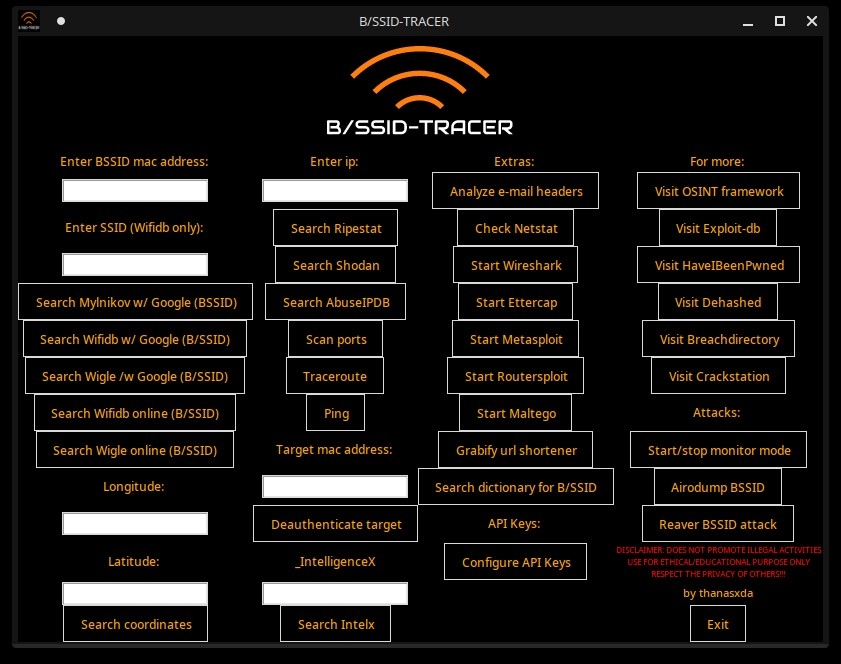
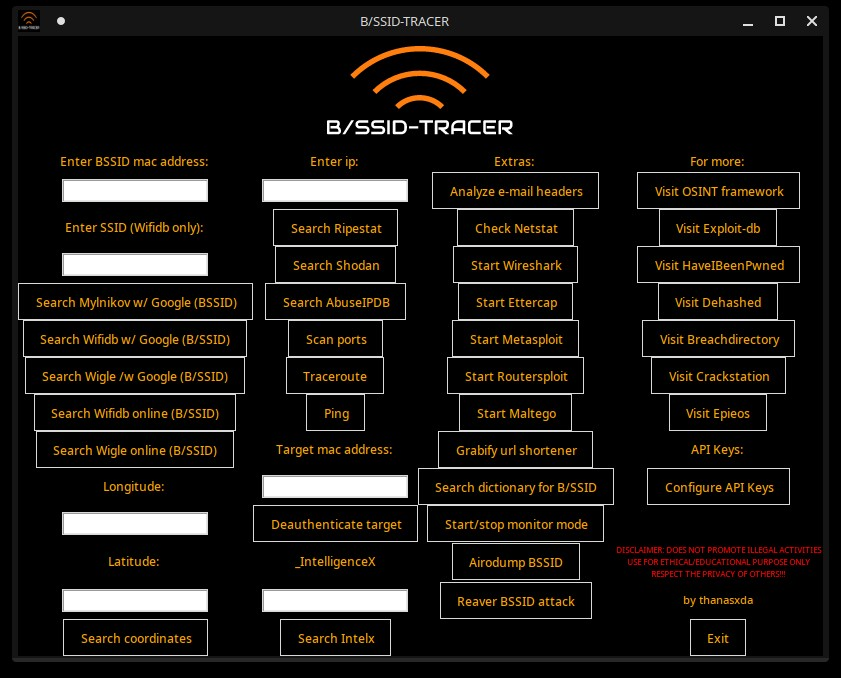
update

Changed region(s): [[0.0309, 0.0, 0.9893, 0.9639]]

diff --git a/bssid-tracer.py b/bssid-tracer.py
@@ -302,7 +302,7 @@ btn_eml.grid(column=2, row=2)
 
 # netstat ##############
 def netSt():
-	os.system('echo "\033[1;93m" ; netstat | grep -i "tcp\|udp" ; echo "\n" ; netstat -n | grep -i "tcp\|udp" ; echo "\033[0m"')
+	os.system('echo "\033[1;93m" ; netstat | grep -i "tcp\|udp" ; echo "\n" ; netstat -n | grep -i "tcp\|udp" ; sudo netstat -tulpn ; echo "\033[0m"')
 btn_ntst = Button(root,bg='#000', fg='orange', text='Check Netstat', borderwidth=4, relief="solid", command=netSt)
 btn_ntst.grid(column=2, row=3)
 
@@ -353,11 +353,30 @@ btn_dict = Button(root,bg='#000', fg='orange', text='Search dictionary for B/SSI
 btn_dict.grid(column=2, row=10)
 ############################
 
-# API KEYS ##############
-Label(root,bg='#000', fg='orange', text='API Keys: ').grid(column=2, row=11)
-btn_apk = Button(root,bg='#000', fg='orange', text='Configure API Keys', borderwidth=4, relief="solid", command=openWindowAPI)
-btn_apk.grid(column=2, row=12)
+
+# ATTACK OPTIONS ##############
+# aircrack-ng ##############
+# airmon #############
+def airMon():
+	os.seteuid(1000)
+	os.system("if airmon-ng | grep -qi wlan ; then airmon-ng stop $(ip -o link | grep -i wlan | awk -F ':' '{print $2}' | head -n1)mon ; else sudo airmon-ng start $(ip -o link | grep -i wlan | awk -F ':' '{print $2}' | head -n1)mon ; fi")
+btn_airmn = Button(root,bg='#000', fg='orange', text='Start/stop monitor mode', borderwidth=4, relief="solid", command=airMon)
+btn_airmn.grid(column=2, row=11)
+
+# airodump #############
+def airoD():
+	os.seteuid(1000)
+	os.system("airodump-ng $(ip -o link | grep -i wlan | awk -F ':' '{print $2}' | head -n1)mon --bssid "+mac.get())
+btn_airmn = Button(root,bg='#000', fg='orange', text='Airodump BSSID', borderwidth=4, relief="solid", command=airoD)
+btn_airmn.grid(column=2, row=12)
+
+# reaver ##############
+def wps():
+		os.system("reaver -i $(ip -o link | grep -i wlan | awk -F ':' '{print $2}' | head -n1)mon -b "+mac.get())
+btn_rvr = Button(root,bg='#000', fg='orange', text='Reaver BSSID attack', borderwidth=4, relief="solid", command=root.destroy)
+btn_rvr.grid(column=2, row=13)
 ############################
+
 
 # EXTERNAL VISIT OPTIONS ##############
 Label(root,bg='#000', fg='orange', text='For more: ').grid(column=3, row=1)
@@ -387,7 +406,7 @@ def dhs():
 btn_dhs = Button(root,bg='#000', fg='orange', text='Visit Dehashed', borderwidth=4, relief="solid", command=dhs)
 btn_dhs.grid(column=3, row=5)
 
-#  ##############
+# breachdirectory ##############
 def bdir():
 		os.system("xdg-open 'https://breachdirectory.com/search'")
 btn_ddir = Button(root,bg='#000', fg='orange', text='Visit Breachdirectory', borderwidth=4, relief="solid", command=bdir)
@@ -398,33 +417,19 @@ def crst():
 		os.system("xdg-open 'https://crackstation.net/'")
 btn_crst = Button(root,bg='#000', fg='orange', text='Visit Crackstation', borderwidth=4, relief="solid", command=crst)
 btn_crst.grid(column=3, row=7)
+
+# epieos ##############
+def epieos():
+		os.system("xdg-open 'https://epieos.com/'")
+btn_epieos = Button(root,bg='#000', fg='orange', text='Visit Epieos', borderwidth=4, relief="solid", command=epieos)
+btn_epieos.grid(column=3, row=8)
 ############################
 
 
-# ATTACK OPTIONS ##############
-Label(root,bg='#000', fg='orange', text='Attacks: ').grid(column=3, row=8)
-############################
-
-# aircrack-ng ##############
-# airmon
-def airMon():
-	os.seteuid(1000)
-	os.system("if airmon-ng | grep -qi wlan ; then airmon-ng stop $(ip -o link | grep -i wlan | awk -F ':' '{print $2}' | head -n1)mon ; else sudo airmon-ng start $(ip -o link | grep -i wlan | awk -F ':' '{print $2}' | head -n1)mon ; fi")
-btn_airmn = Button(root,bg='#000', fg='orange', text='Start/stop monitor mode', borderwidth=4, relief="solid", command=airMon)
-btn_airmn.grid(column=3, row=9)
-
-# airodump
-def airoD():
-	os.seteuid(1000)
-	os.system("airodump-ng $(ip -o link | grep -i wlan | awk -F ':' '{print $2}' | head -n1)mon --bssid "+mac.get())
-btn_airmn = Button(root,bg='#000', fg='orange', text='Airodump BSSID', borderwidth=4, relief="solid", command=airoD)
-btn_airmn.grid(column=3, row=10)
-
-# reaver ##############
-def wps():
-		os.system("reaver -i $(ip -o link | grep -i wlan | awk -F ':' '{print $2}' | head -n1)mon -b "+mac.get())
-btn_rvr = Button(root,bg='#000', fg='orange', text='Reaver BSSID attack', borderwidth=4, relief="solid", command=root.destroy)
-btn_rvr.grid(column=3, row=11)
+# API KEYS ##############
+Label(root,bg='#000', fg='orange', text='API Keys: ').grid(column=3, row=9)
+btn_apk = Button(root,bg='#000', fg='orange', text='Configure API Keys', borderwidth=4, relief="solid", command=openWindowAPI)
+btn_apk.grid(column=3, row=10)
 ############################
 
 
